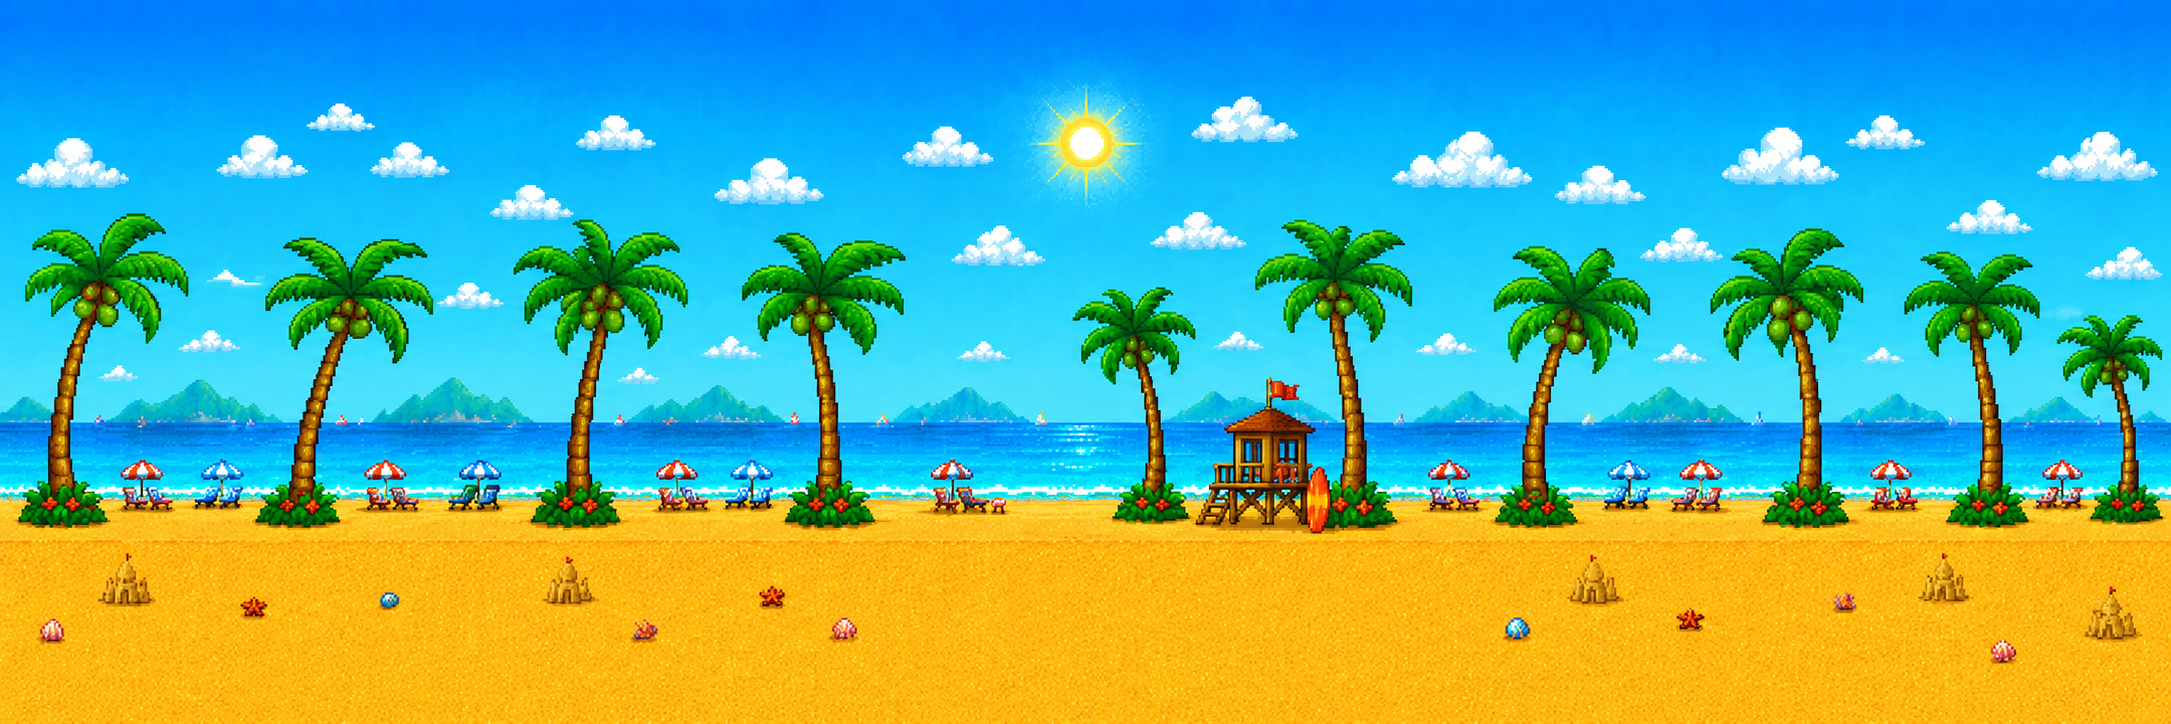
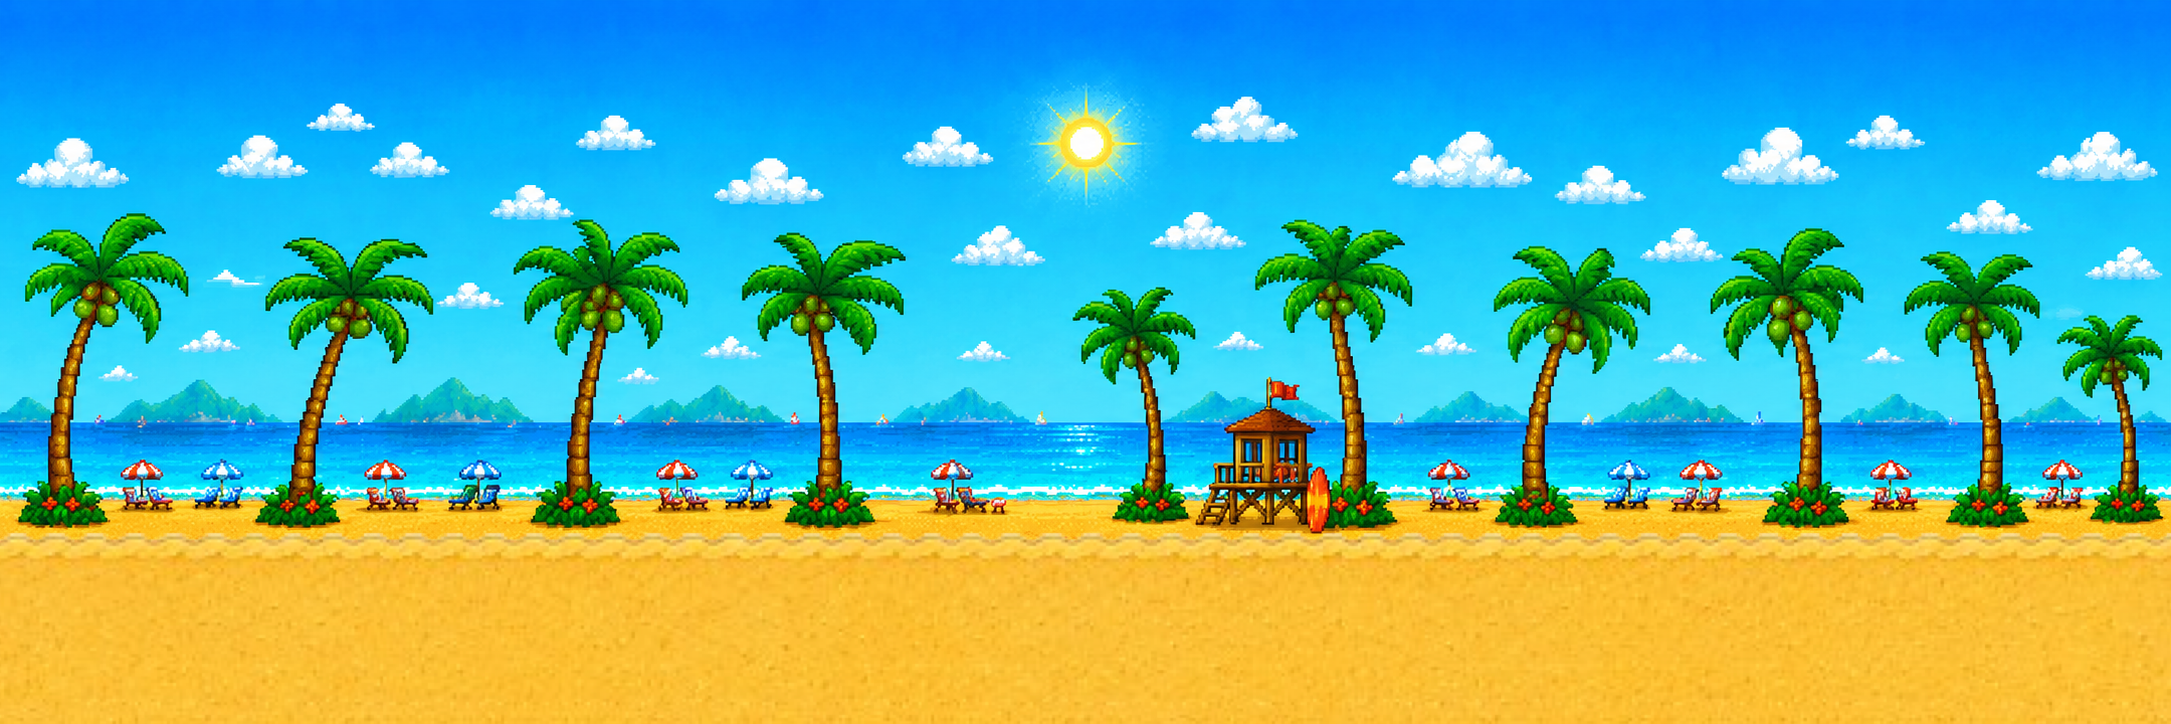
atualizando fase 2

Changed region(s): [[0.0, 0.7293, 1.0, 1.0]]

diff --git a/src/steps/stage2.c b/src/steps/stage2.c
@@ -4,20 +4,74 @@
 #include <stdlib.h>
 #include <math.h>
 
+// Texturas dos obstáculos
 static Texture2D texturaCaranguejo;
 static Texture2D texturaBuraco;
-static Texture2D texturaPersonagemReserva;
+
+// Texturas de animação do personagem
+static Texture2D txMoverDireita;
+static Texture2D txMoverEsquerda;
+static Texture2D txPuloDireita;
+static Texture2D txPuloEsquerda;
+
+// Controle de carregamento do cenário
+static int bgLoaded = 0;
+
+// Variável estática para lembrar para onde o jogador olhou por último (1 = Direita, 0 = Esquerda)
+static int olhandoParaDireita = 1;
 
 #define S2_AREIA_Y      975.0f  
 #define S2_GRAVIDADE   3200.0f
 #define S2_FORCA_PULO -1220.0f  
 
+// =========================================================================
+// REQUISITO 4: ALGORITMO DE ORDENAÇÃO (INSERTION SORT)
+// Ordena a lista encadeada de obstáculos baseada na posição X (mais próximos primeiro)
+// =========================================================================
+static void sortStage2Obstacles(Stage2Queue *queue) {
+    if (queue->front == NULL || queue->front->next == NULL) return;
+
+    Stage2Node *sorted = NULL;
+    Stage2Node *current = queue->front;
+
+    while (current != NULL) {
+        Stage2Node *next = current->next;
+
+        // Inserção ordenada na lista auxiliar
+        if (sorted == NULL || sorted->obstacle.position.x >= current->obstacle.position.x) {
+            current->next = sorted;
+            sorted = current;
+        } else {
+            Stage2Node *temp = sorted;
+            while (temp->next != NULL && temp->next->obstacle.position.x < current->obstacle.position.x) {
+                temp = temp->next;
+            }
+            current->next = temp->next;
+            temp->next = current;
+        }
+        current = next;
+    }
+    queue->front = sorted;
+
+    // Atualiza o ponteiro do 'rear' (fim da fila) reconstruindo a referência
+    Stage2Node *temp = queue->front;
+    while (temp != NULL && temp->next != NULL) {
+        temp = temp->next;
+    }
+    queue->rear = temp;
+}
+
+// =========================================================================
+// REQUISITO 5 & 6: FUNÇÕES DA ESTRUTURA DE DADOS ADOTADA
+// Mapeamento das funções dinâmicas da fila encadeada FIFO
+// =========================================================================
+
+// Função da ED 1: Geração e Enfileiramento (Enqueue)
 static void spawnSandObstacle(Stage2 *stage) {
     int roll = rand() % 100;
     Stage2ObstacleType type = (roll < 50) ? S2_OBS_CRAB : S2_OBS_TRASH;
 
     Vector2 pos = { (float)GetRenderWidth() + 100.0f, S2_AREIA_Y };
-
     Stage2Obstacle obs = createStage2Obstacle(pos, type);
 
     if (type == S2_OBS_CRAB) {
@@ -33,9 +87,10 @@ static void spawnSandObstacle(Stage2 *stage) {
     obs.hitbox.x = obs.position.x + 10.0f; 
     obs.hitbox.y = obs.position.y + (type == S2_OBS_CRAB ? 25.0f : 15.0f);
 
-    enqueueStage2(&stage->obstacleQueue, obs);
+    enqueueStage2(&stage->obstacleQueue, obs); 
 }
 
+// Função da ED 2: Varredura Linear e Colisão
 static void handleSandCollisions(Stage2 *stage, Player *player) {
     Stage2Node *cur = stage->obstacleQueue.front;
     while (cur != NULL) {
@@ -65,6 +120,7 @@ static void handleSandCollisions(Stage2 *stage, Player *player) {
     }
 }
 
+// Funções da ED 3, 4 e 5: Modificação, Captura de Tamanho e Desenfileiramento (Dequeue)
 static void scrollAndCleanObstacles(Stage2 *stage, Player *player, float deltaTime) {
     Stage2Node *cur = stage->obstacleQueue.front;
     while (cur != NULL) {
@@ -75,8 +131,8 @@ static void scrollAndCleanObstacles(Stage2 *stage, Player *player, float deltaTi
         cur = cur->next;
     }
 
-    int sizeBefore = stage2QueueSize(&stage->obstacleQueue);
-    removeOffscreenStage2(&stage->obstacleQueue, -200.0f);
+    int sizeBefore = stage2QueueSize(&stage->obstacleQueue);               
+    removeOffscreenStage2(&stage->obstacleQueue, -200.0f);                 
     int sizeAfter = stage2QueueSize(&stage->obstacleQueue);
     int passed = sizeBefore - sizeAfter;
     if (passed > 0) {
@@ -84,6 +140,7 @@ static void scrollAndCleanObstacles(Stage2 *stage, Player *player, float deltaTi
     }
 }
 
+// Função da ED 6: Inicialização Construtora
 void initStage2(Stage2 *stage) {
     stage->mode = STAGE2_MODE_SAND;
     stage->modeTimer = 0.0f;
@@ -93,9 +150,9 @@ void initStage2(Stage2 *stage) {
     stage->obstacleSpawnTimer = 0.0f;
     stage->difficultyMultiplier = 1.0f;
     stage->stage2Complete = 0;
-    stage->backgroundScroll = 0.0f;
+    stage->backgroundScroll = 0.0f; 
 
-    initStage2Queue(&stage->obstacleQueue);
+    initStage2Queue(&stage->obstacleQueue); 
 
     stage->hasCoconutBuff = 0;
     stage->coconutBuffTimer = 0.0f;
@@ -107,25 +164,43 @@ void initStage2(Stage2 *stage) {
     stage->stormActive = 0;
     stage->currentPushY = 0.0f;
 
+    bgLoaded = 0;
     stage->bgSand = LoadTexture("assets/img/landscapeLevel2.png");
+    if (stage->bgSand.id != 0) bgLoaded = 1;
+
     stage->bgSea  = (Texture2D){0};
 
     texturaCaranguejo = LoadTexture("assets/img/crab1.png");
     texturaBuraco     = LoadTexture("assets/img/hole.png");
-    texturaPersonagemReserva = LoadTexture("assets/img/characterMovingR1.png");
+    
+    txMoverDireita  = LoadTexture("assets/img/characterMovingR1.png");
+    txMoverEsquerda = LoadTexture("assets/img/characterMovingL1.png");
+    txPuloDireita   = LoadTexture("assets/img/CharacterJumpingR.png");
+    txPuloEsquerda  = LoadTexture("assets/img/CharacterJumpingL.png");
 
-    if (stage->bgSand.id == 0 || texturaCaranguejo.id == 0 || texturaBuraco.id == 0 || texturaPersonagemReserva.id == 0) {
-        printf("[AVISO] Erro crítico: Falha ao carregar uma ou mais texturas na Fase 2!\n");
+    olhandoParaDireita = 1; 
+
+    if (!bgLoaded || texturaCaranguejo.id == 0 || texturaBuraco.id == 0) {
+        printf("[AVISO] Erro crítico: Falha ao carregar texturas de cenário ou obstáculos na Stage 2!\n");
     }
 }
 
+// Função da ED 7: Destruição e Desalocação (Clear/Free)
 void unloadStage2(Stage2 *stage) {
-    if (stage->bgSand.id > 0) UnloadTexture(stage->bgSand);
+    if (bgLoaded) {
+        UnloadTexture(stage->bgSand);
+        bgLoaded = 0;
+    }
     if (stage->bgSea.id  > 0) UnloadTexture(stage->bgSea);
+    
     UnloadTexture(texturaCaranguejo);
     UnloadTexture(texturaBuraco);
-    UnloadTexture(texturaPersonagemReserva);
-    freeStage2Queue(&stage->obstacleQueue);
+    UnloadTexture(txMoverDireita);
+    UnloadTexture(txMoverEsquerda);
+    UnloadTexture(txPuloDireita);
+    UnloadTexture(txPuloEsquerda);
+    
+    freeStage2Queue(&stage->obstacleQueue); 
 }
 
 static void updateSand(Stage2 *stage, Player *player, float deltaTime) {
@@ -136,11 +211,19 @@ static void updateSand(Stage2 *stage, Player *player, float deltaTime) {
             stage->breath = 100.0f;
             stage->distanceTraveled = 0.0f;
             stage->obstacleSpawnTimer = 0.0f;
+            stage->backgroundScroll = 0.0f; 
             freeStage2Queue(&stage->obstacleQueue);
             initStage2Queue(&stage->obstacleQueue);
-            printf("[STAGE 2] Reset interno executado com sucesso!\n");
+            olhandoParaDireita = 1;
+            printf("[STAGE 2] Reset interno executado!\n");
         }
         return; 
+    }
+
+    if (IsKeyDown(KEY_RIGHT) || IsKeyDown(KEY_D)) {
+        olhandoParaDireita = 1;
+    } else if (IsKeyDown(KEY_LEFT) || IsKeyDown(KEY_A)) {
+        olhandoParaDireita = 0;
     }
 
     float fatorDificuldade = 1.0f + (stage->distanceTraveled / 300.0f) * 0.15f;
@@ -160,6 +243,8 @@ static void updateSand(Stage2 *stage, Player *player, float deltaTime) {
 
     float velocidadAtual = 450.0f * fatorDificuldade; 
     stage->spawnInterval = 1.3f / fatorDificuldade;
+
+    stage->backgroundScroll += velocidadAtual * deltaTime;
 
     player->width = 140.0f;
     player->height = 175.0f;
@@ -186,12 +271,15 @@ static void updateSand(Stage2 *stage, Player *player, float deltaTime) {
         stage->obstacleSpawnTimer = 0.0f;
     }
 
+    // Ordena a fila dinamicamente antes de mover
+    sortStage2Obstacles(&stage->obstacleQueue);
+
+    // Atualiza o movimento baseado nos ponteiros ordenados
     float velocidadeAntiga = stage->scrollSpeed;
     stage->scrollSpeed = velocidadAtual;
     scrollAndCleanObstacles(stage, player, deltaTime);
     stage->scrollSpeed = velocidadeAntiga;
 
-    // Hitbox calibrada para o corpo do jogador
     player->hitbox.width = player->width - 40.0f; 
     player->hitbox.height = player->height - 10.0f;
     player->hitbox.x = player->position.x + 20.0f; 
@@ -258,19 +346,35 @@ static void drawStage2Obstacle(Stage2Obstacle obs) {
 }
 
 static void drawSand(Stage2 *stage) {
-    if (stage->bgSand.id > 0) {
+    int screenWidth = GetRenderWidth();
+    int screenHeight = GetRenderHeight();
+
+    // =========================================================================
+    // BACKGROUND ÚNICO DA PRAIA EM LOOP INFINITO COM PARALLAX (0.25f)
+    // =========================================================================
+    if (bgLoaded && stage->bgSand.id > 0) {
+        float bgScroll = fmod(stage->backgroundScroll * 0.25f, screenWidth);
         Rectangle source = { 0.0f, 0.0f, (float)stage->bgSand.width, (float)stage->bgSand.height };
-        Rectangle dest = { 0.0f, 0.0f, (float)GetRenderWidth(), (float)GetRenderHeight() };
-        Vector2 origin = { 0.0f, 0.0f };
-        DrawTexturePro(stage->bgSand, source, dest, origin, 0.0f, WHITE);
+
+        for (int i = 0; i < 2; i++) {
+            Rectangle dest = { 
+                (i * screenWidth) - bgScroll, 
+                0.0f, 
+                (float)screenWidth, 
+                (float)screenHeight 
+            };
+            DrawTexturePro(stage->bgSand, source, dest, (Vector2){0, 0}, 0.0f, WHITE);
+        }
     }
 
+    // Renderiza os obstáculos na tela seguindo a ordenação estável do sort
     Stage2Node *cur = stage->obstacleQueue.front;
     while (cur != NULL) {
         drawStage2Obstacle(cur->obstacle);
         cur = cur->next;
     }
 
+    // Interface HUD
     DrawText("VIDA:", 15, 120, 20, DARKGRAY);
     DrawRectangle(85, 120, 200, 20, (Color){60, 60, 60, 200});
     float pct = stage->breath / 100.0f;
@@ -314,8 +418,18 @@ void drawStage2(Stage2 *stage, Player *player) {
     }
 
     if (stage->mode == STAGE2_MODE_SAND) {
-        if (texturaPersonagemReserva.id > 0) {
-            Rectangle source = { 0.0f, 0.0f, (float)texturaPersonagemReserva.width, (float)texturaPersonagemReserva.height };
+        Texture2D texturaAtual = txMoverDireita; 
+        float limiteChao = S2_AREIA_Y - player->height;
+        int noAr = (player->position.y < limiteChao - 5.0f);
+
+        if (noAr) {
+            texturaAtual = olhandoParaDireita ? txPuloDireita : txPuloEsquerda;
+        } else {
+            texturaAtual = olhandoParaDireita ? txMoverDireita : txMoverEsquerda;
+        }
+
+        if (texturaAtual.id > 0) {
+            Rectangle source = { 0.0f, 0.0f, (float)texturaAtual.width, (float)texturaAtual.height };
             Rectangle dest = {
                 player->position.x,
                 player->position.y, 
@@ -323,7 +437,7 @@ void drawStage2(Stage2 *stage, Player *player) {
                 player->height
             };
             Vector2 origin = { 0.0f, 0.0f };
-            DrawTexturePro(texturaPersonagemReserva, source, dest, origin, 0.0f, WHITE);
+            DrawTexturePro(texturaAtual, source, dest, origin, 0.0f, WHITE);
         } else {
             DrawRectangleRec(player->hitbox, BLUE);
         }
